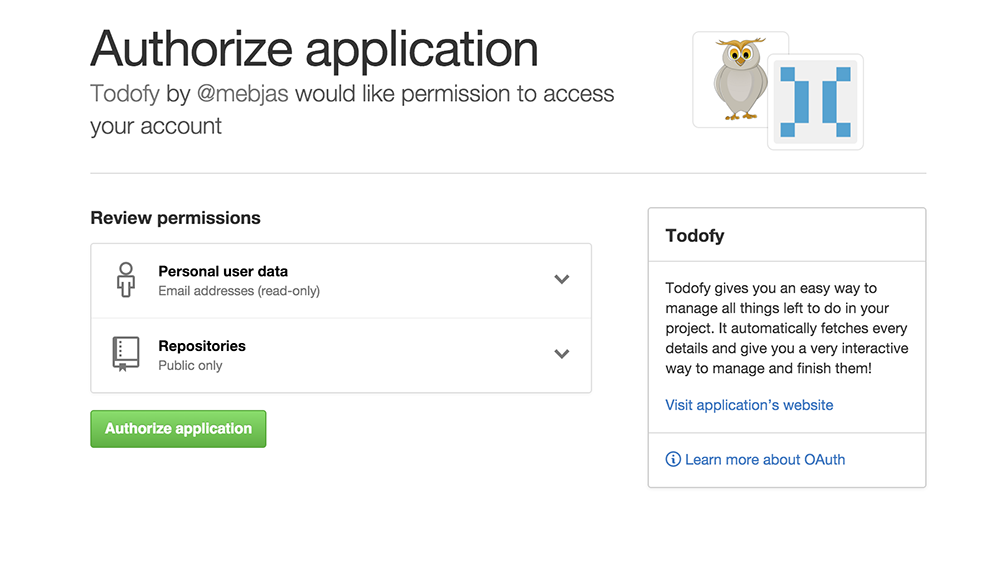
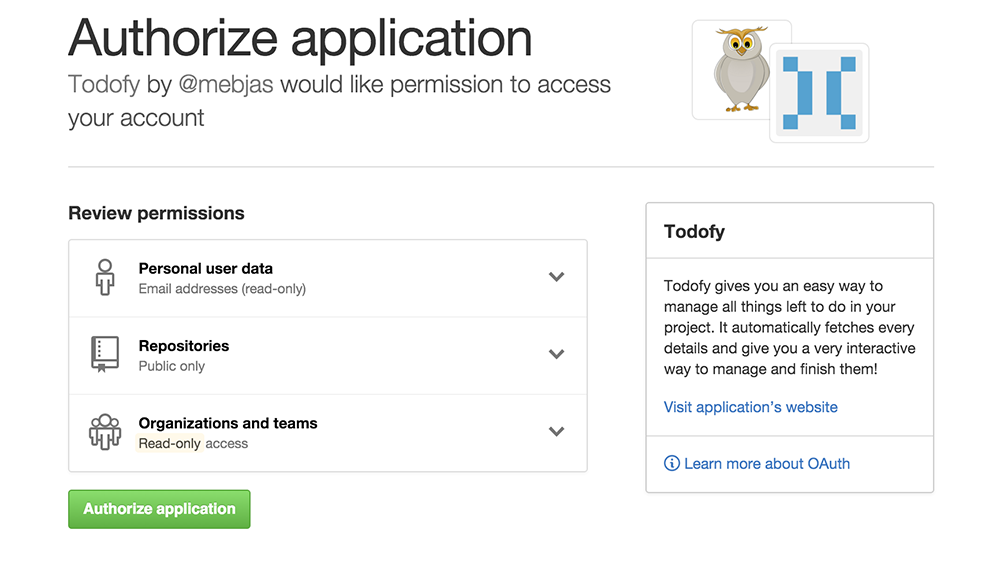
repo info added

diff --git a/index.html b/index.html
@@ -91,7 +91,7 @@ blockquote {
     <div style="margin: 10px">
       <img src="./assets/img/oauth.png" alert="OAuth Permissions" style="max-width: 600px">
     </div>
-    <blockquote>Todofy requires your permission to read your email id and read/write access to all your public repositories. This is needed to check collaborator access to repositories and add webhooks to track status of all todos after each commit. We do not need write permission to your public repositories, but it comes bundled in. It's all about trust :)</blockquote>
+    <blockquote>Todofy requires your permission to read your email id, read/write access to all your public repositories and read-access to your organizations and teams. This is needed to check collaborator access to repositories and add webhooks to track status of all todos after each commit. We do not need write permission to your public repositories, but it comes bundled in. It's all about trust :)</blockquote>
   </div>
 </section> <!-- signup -->
       
@@ -101,9 +101,24 @@ blockquote {
     <h1>Repositories <small>Integrate all your public repositories and organisation reporitories!</small></h1>
   </div>
 
-  <div class="alert">
-    <a class="close" data-dismiss="alert">×</a>
-    <strong>Warning!</strong> This section is a draft now, certain features might not have been implemented yet!
+  <div class="info">
+    When you sign up, we list out each of your public repositories and organizations repositories. Also, you can refresh this list anytime from your profile page.
+    <div style="margin: 10px">
+      <img src="./assets/img/repo_refresh.png" alt="repo refresh feature" style="max-width: 600px">
+    </div>
+    You can refresh using the <code>Sync button</code> on <code>top right</code>.
+    <br>
+    <br>
+    <br>
+    <h3>Organizational repositories</h3>
+    You can visit any organization page by visiting their url <code>https://todofy.org/r/&lt;org name&gt;</code>.
+    <br>
+    For example: <a href="https://todofy.org/r/todofy">https://todofy.org/r/todofy</a>.
+    <br>
+    <br> Or if you are a team member / collaborator at any organization, you can view them on your profile page by clickin on the listed organizations.
+    <div style="margin: 10px">
+      <img src="./assets/img/org_repo.png" alt="org_repos" style="max-width: 600px">
+    </div>
   </div>
 </section> <!-- repo -->
       
